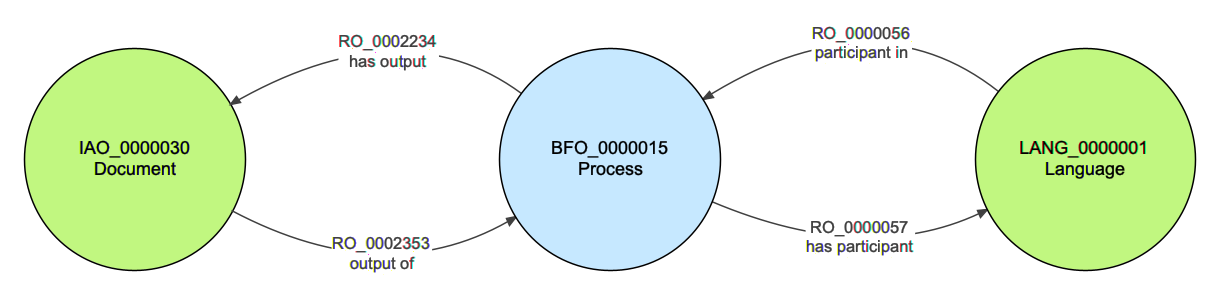
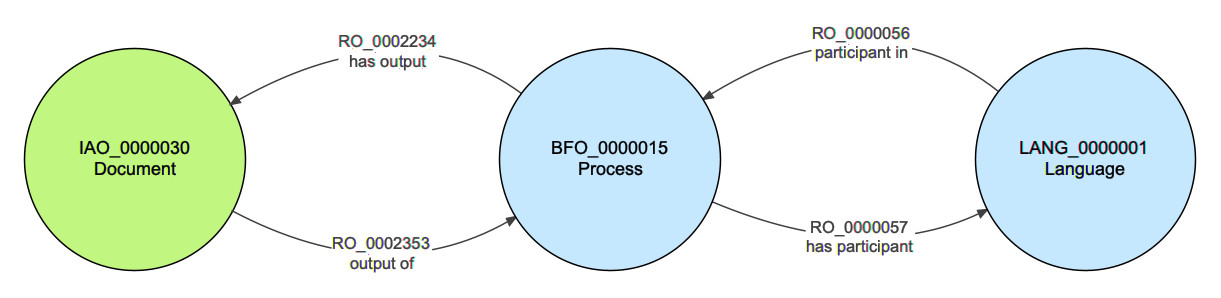
Change Language to light blue

Changed region(s): [[0.7781, 0.151, 0.9959, 0.906]]

diff --git a/src/images/Language in Work.vue b/src/images/Language in Work.vue
@@ -1,14 +1,14 @@
 <!-- Tufts VUE 3.3.0 concept-map (Language in Work.vue) 2020-01-07 -->
 <!-- Tufts VUE: http://vue.tufts.edu/ -->
 <!-- Do Not Remove: VUE mapping @version(1.1) jar:file:/Applications/VUE.app/Contents/Resources/Java/VUE.jar!/tufts/vue/resources/lw_mapping_1_1.xml -->
-<!-- Do Not Remove: Saved date Tue Jan 07 14:20:07 EST 2020 by mikeconlon on platform Mac OS X 10.15.2 in JVM 12+33 -->
+<!-- Do Not Remove: Saved date Tue Jan 07 14:54:52 EST 2020 by mikeconlon on platform Mac OS X 10.15.2 in JVM 12+33 -->
 <!-- Do Not Remove: Saving version @(#)VUE: built November 26 2019 at 1503 by mikeconlon on Mac OS X 10.15.1 x86_64 JVM 12+33(bits=64) -->
 <?xml version="1.0" encoding="US-ASCII"?>
 <LW-MAP xmlns:xsi="http://www.w3.org/2001/XMLSchema-instance"
     xsi:noNamespaceSchemaLocation="none" ID="0"
     label="Language in Work.vue" created="1393354945662" x="0.0" y="0.0"
     width="893.96466" height="683.6229" strokeWidth="0.0" autoSized="false">
-    <resource referenceCreated="1578424807650"
+    <resource referenceCreated="1578426892322" size="43846"
         spec="/Users/mikeconlon/Desktop/Language in Work.vue" type="1" xsi:type="URLResource">
         <title>Language in Work.vue</title>
         <property key="File" value="/Users/mikeconlon/Desktop/Language in Work.vue"/>
@@ -100,7 +100,7 @@
         created="1535748523313" x="759.5637" y="-308.76547"
         width="146.94426" height="147.8642" strokeWidth="1.0"
         autoSized="false" xsi:type="node">
-        <fillColor>#C1F780</fillColor>
+        <fillColor>#C6E8FF</fillColor>
         <strokeColor>#000000</strokeColor>
         <textColor>#000000</textColor>
         <font>Arial-plain-12</font>
